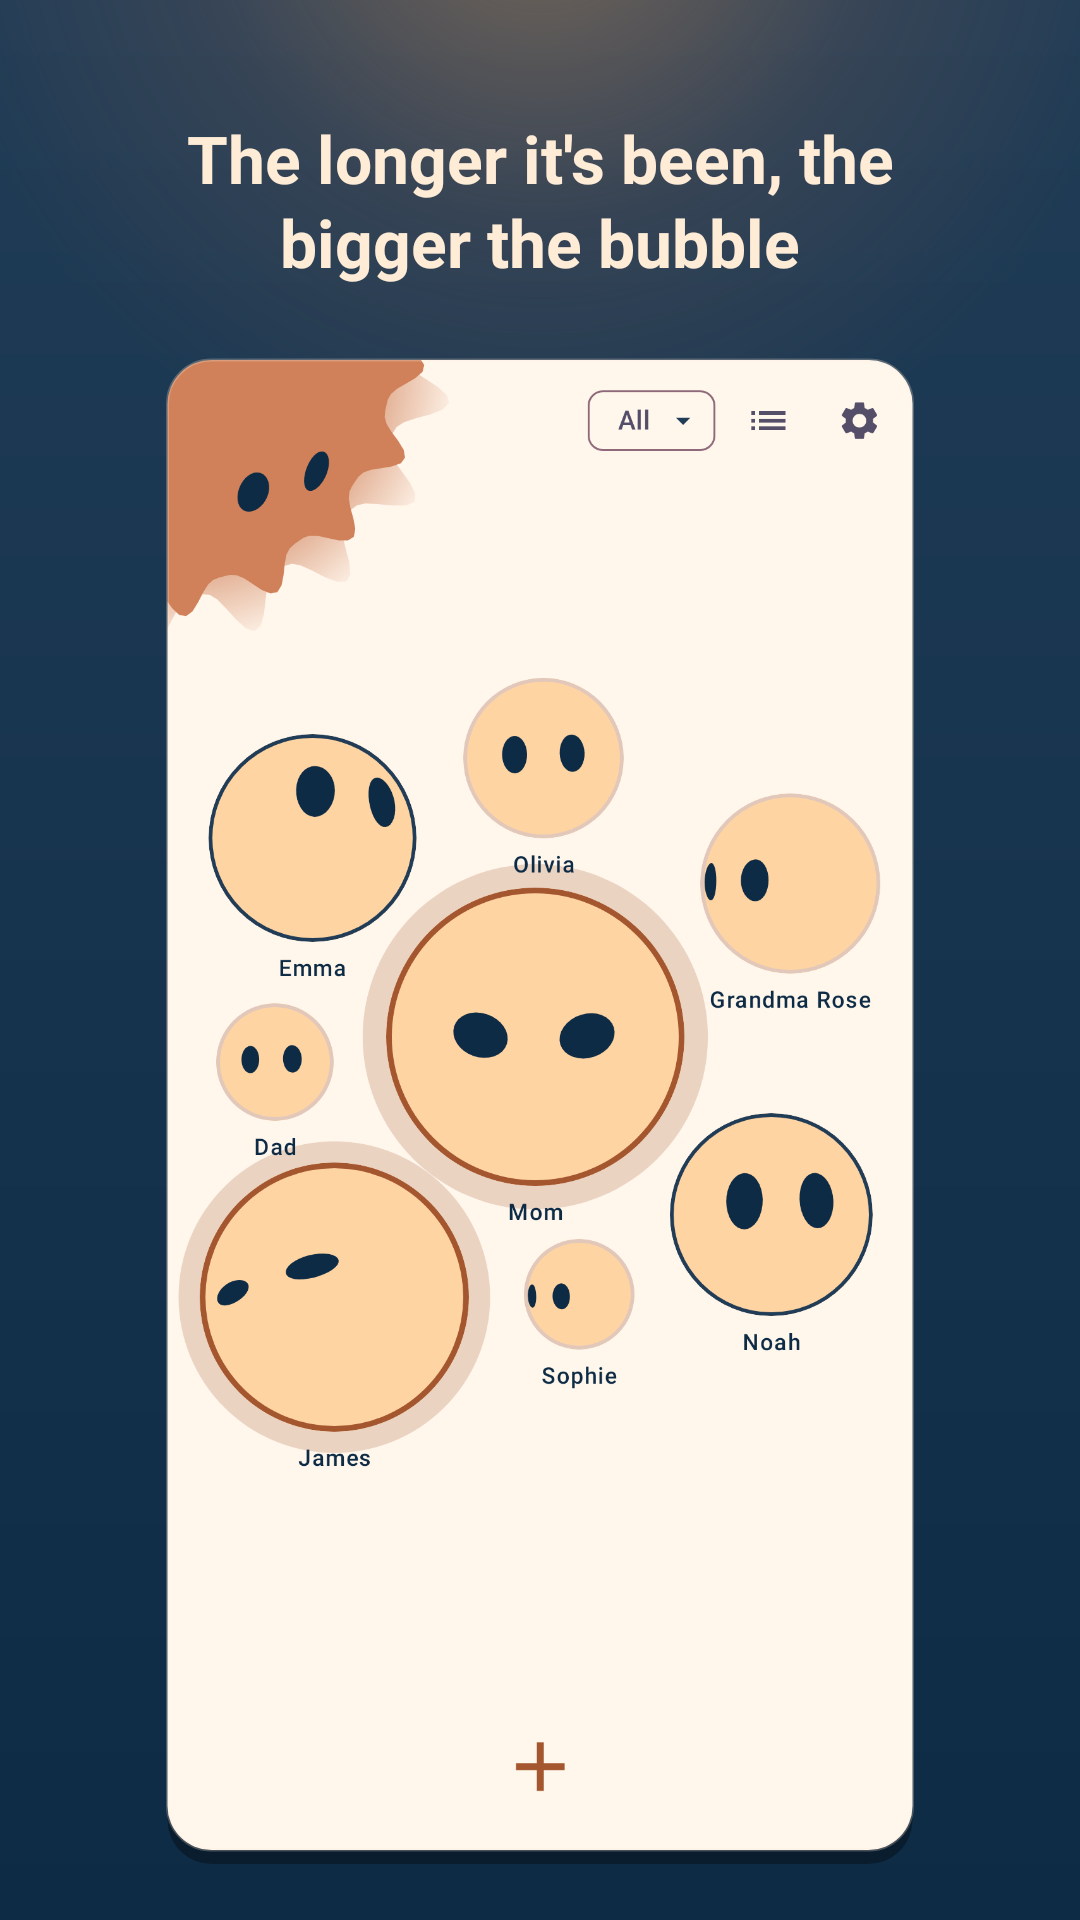
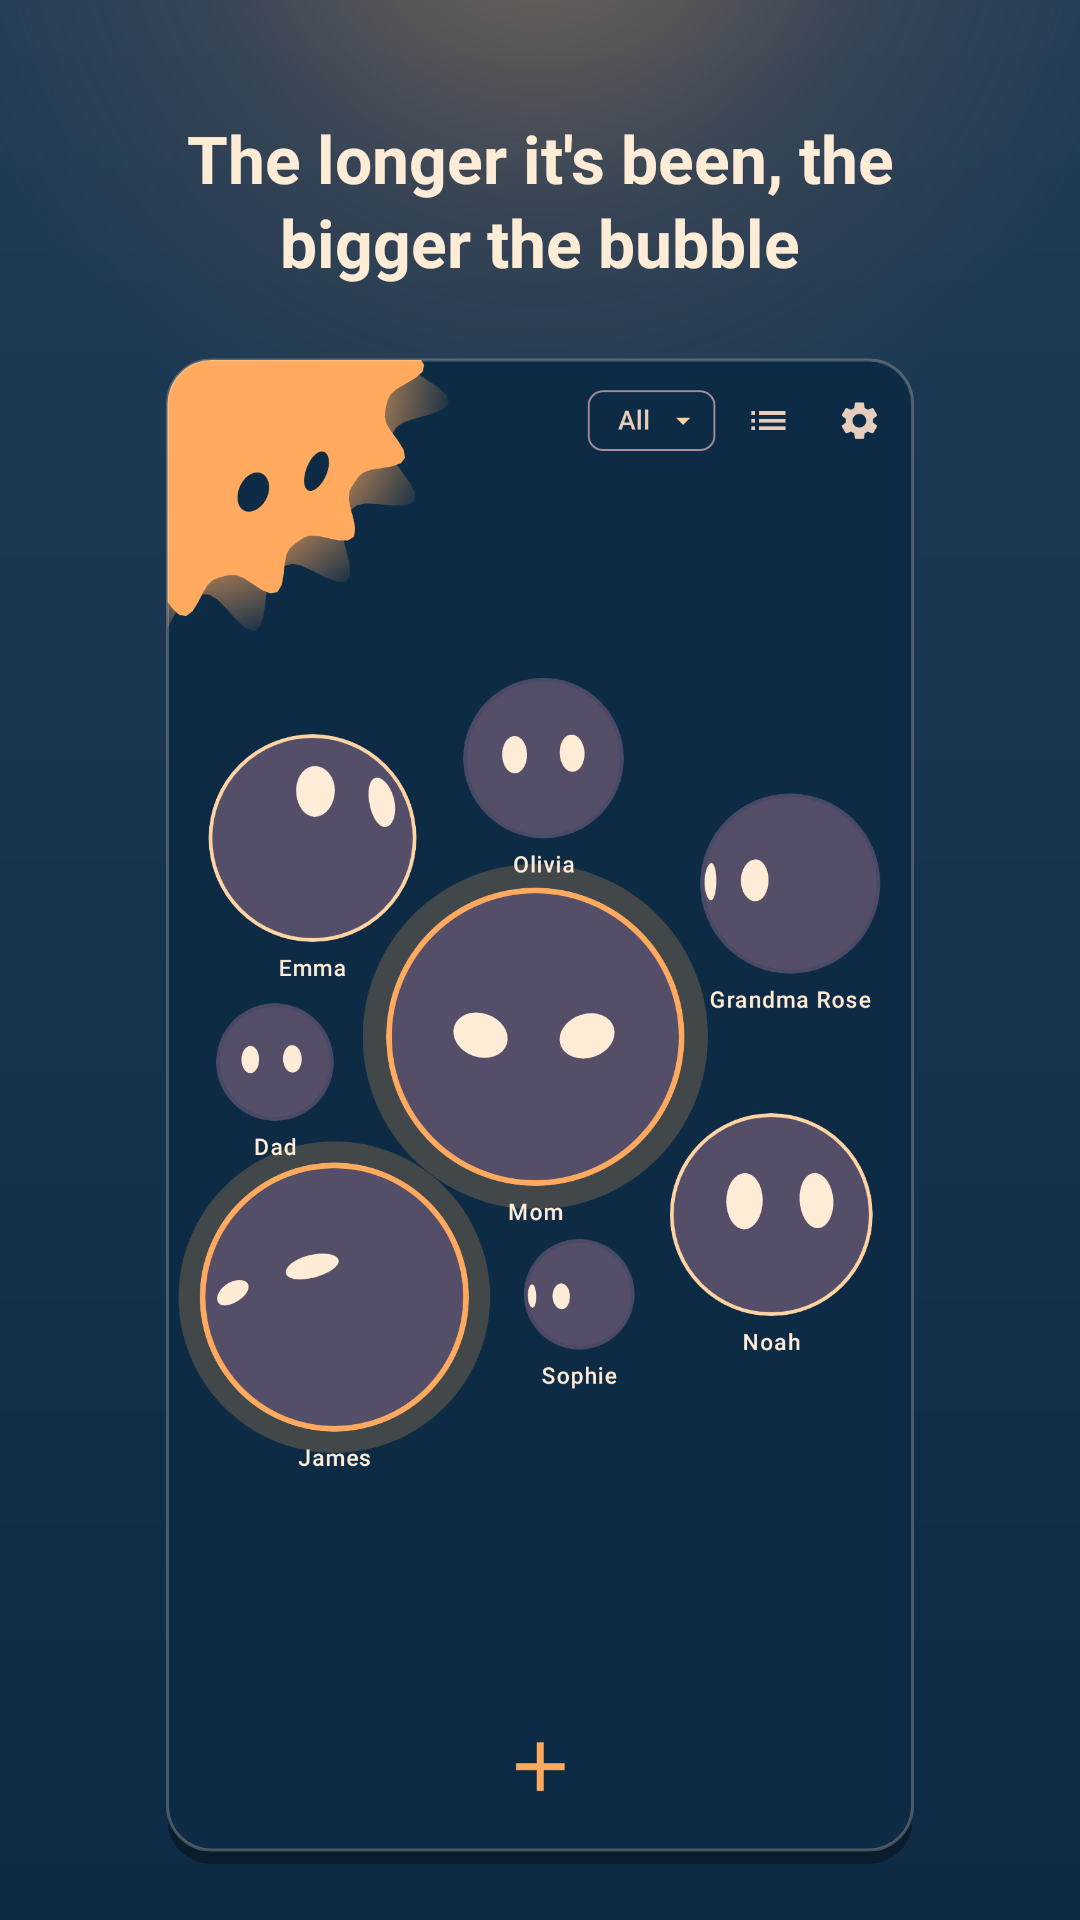
Ficha de Play: burbujas y "Cuándo y cómo" en oscuro
Las capturas alternan claro y oscuro: órbitas, burbujas (oscuro), ficha,
horas (oscuro) y órbitas en oscuro.

Claude-Session: https://claude.ai/code/session_019f2yioZXzhcdnWm7TkowAq

diff --git a/app/src/test/java/com/example/recuerdallamar/escaparate/EscaparateTest.kt b/app/src/test/java/com/example/recuerdallamar/escaparate/EscaparateTest.kt
@@ -71,7 +71,10 @@ enum class Lengua(val carpeta: String, val idioma: IdiomaElegido, val locale: Lo
     RU("ru-RU", IdiomaElegido.RU, Locale("ru", "RU")),
 }
 
-/** Cada captura, en el orden de la ficha: orbitas, burbujas, ficha, horas, orbitas en oscuro. */
+/**
+ * Cada captura, en el orden de la ficha, alternando claro y oscuro: orbitas,
+ * burbujas (oscuro), ficha, horas (oscuro), orbitas en oscuro.
+ */
 private val TITULOS = mapOf(
     Lengua.ES to listOf(
         "Tu gente, en órbita a tu alrededor",
@@ -257,7 +260,7 @@ class EscaparateTest(private val lengua: Lengua) {
         pasar(4_000)
         guardar(lengua, 1, "orbitas", pantalla())
 
-        almacen.cambiar { it.copy(vista = VistaPersonas.BURBUJAS) }
+        almacen.cambiar { it.copy(vista = VistaPersonas.BURBUJAS, tema = TemaElegido.OSCURO) }
         pasar(4_000)
         guardar(lengua, 2, "burbujas", pantalla())
 
@@ -356,7 +359,7 @@ class EscaparateBienvenidaTest(private val lengua: Lengua) {
         assumeTrue(System.getenv("ESCAPARATE") != null)
         shadowOf(app).grantPermissions(Manifest.permission.POST_NOTIFICATIONS)
         AlmacenAjustes.de(app).cambiar {
-            it.copy(idioma = lengua.idioma, tema = TemaElegido.CLARO, horaDesde = 10, horaHasta = 21)
+            it.copy(idioma = lengua.idioma, tema = TemaElegido.OSCURO, horaDesde = 10, horaHasta = 21)
         }
         escenario = ActivityScenario.launch(MainActivity::class.java)
         compose.waitForIdle()
